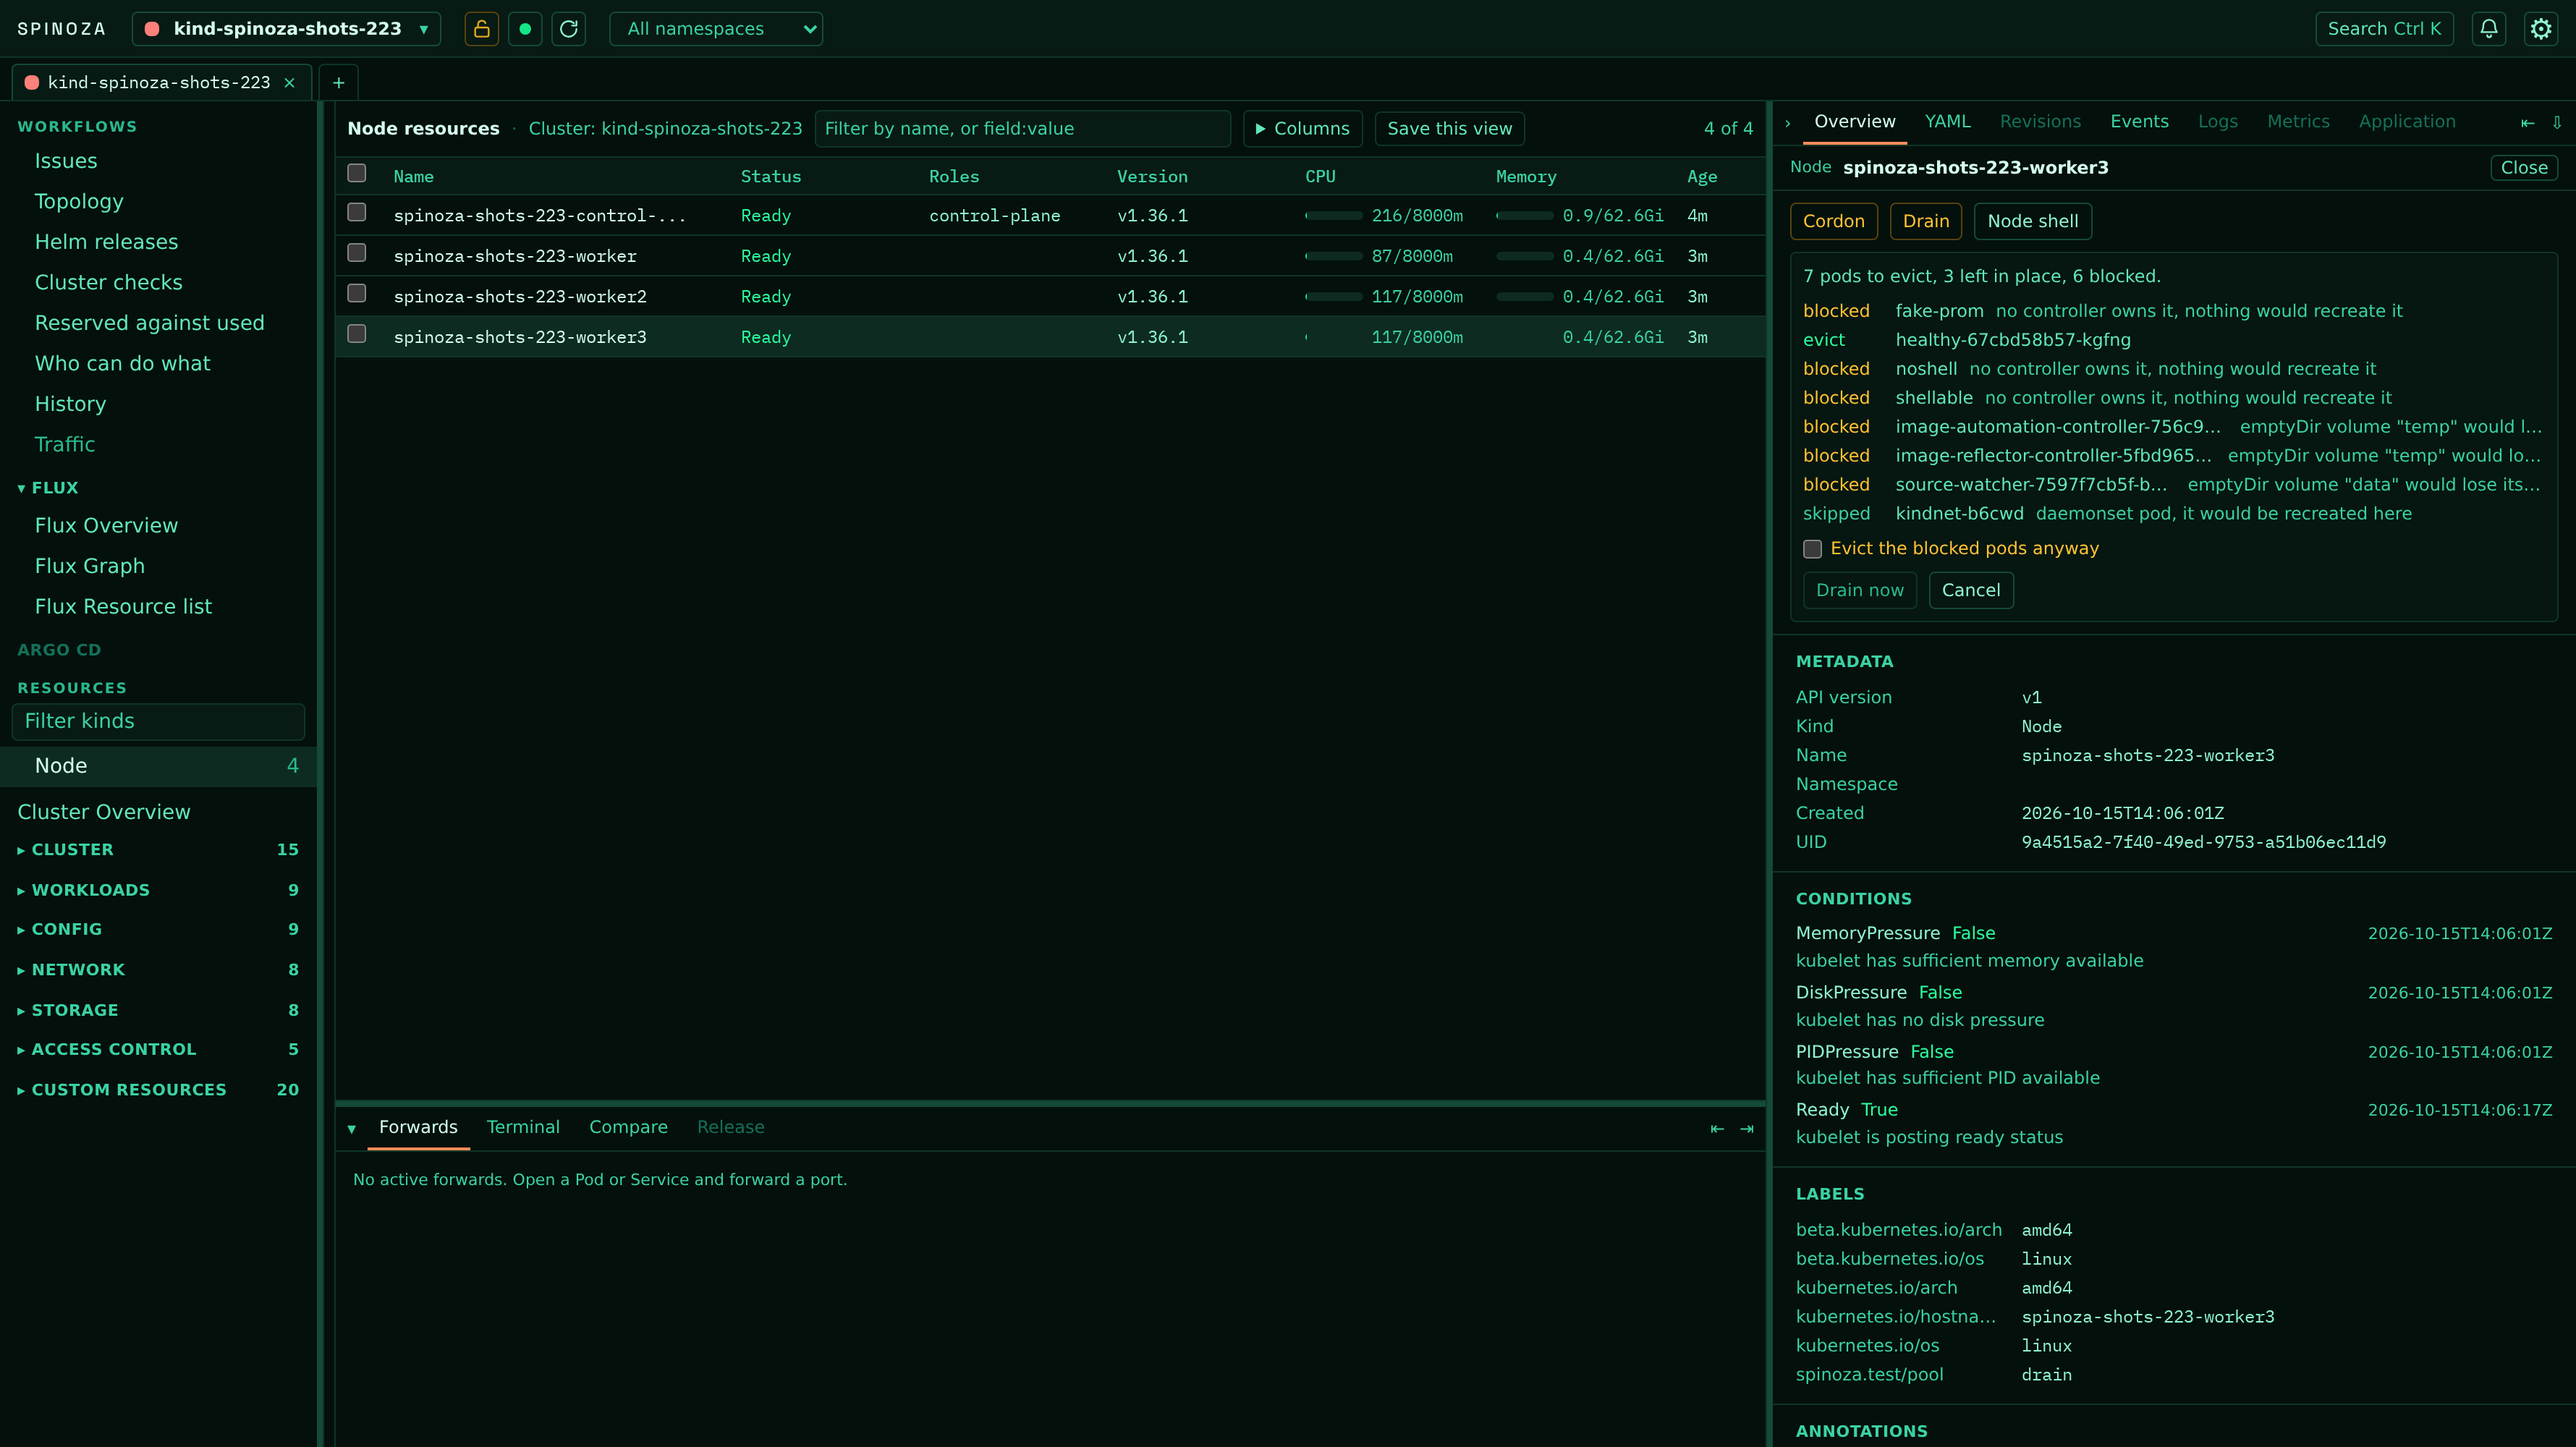
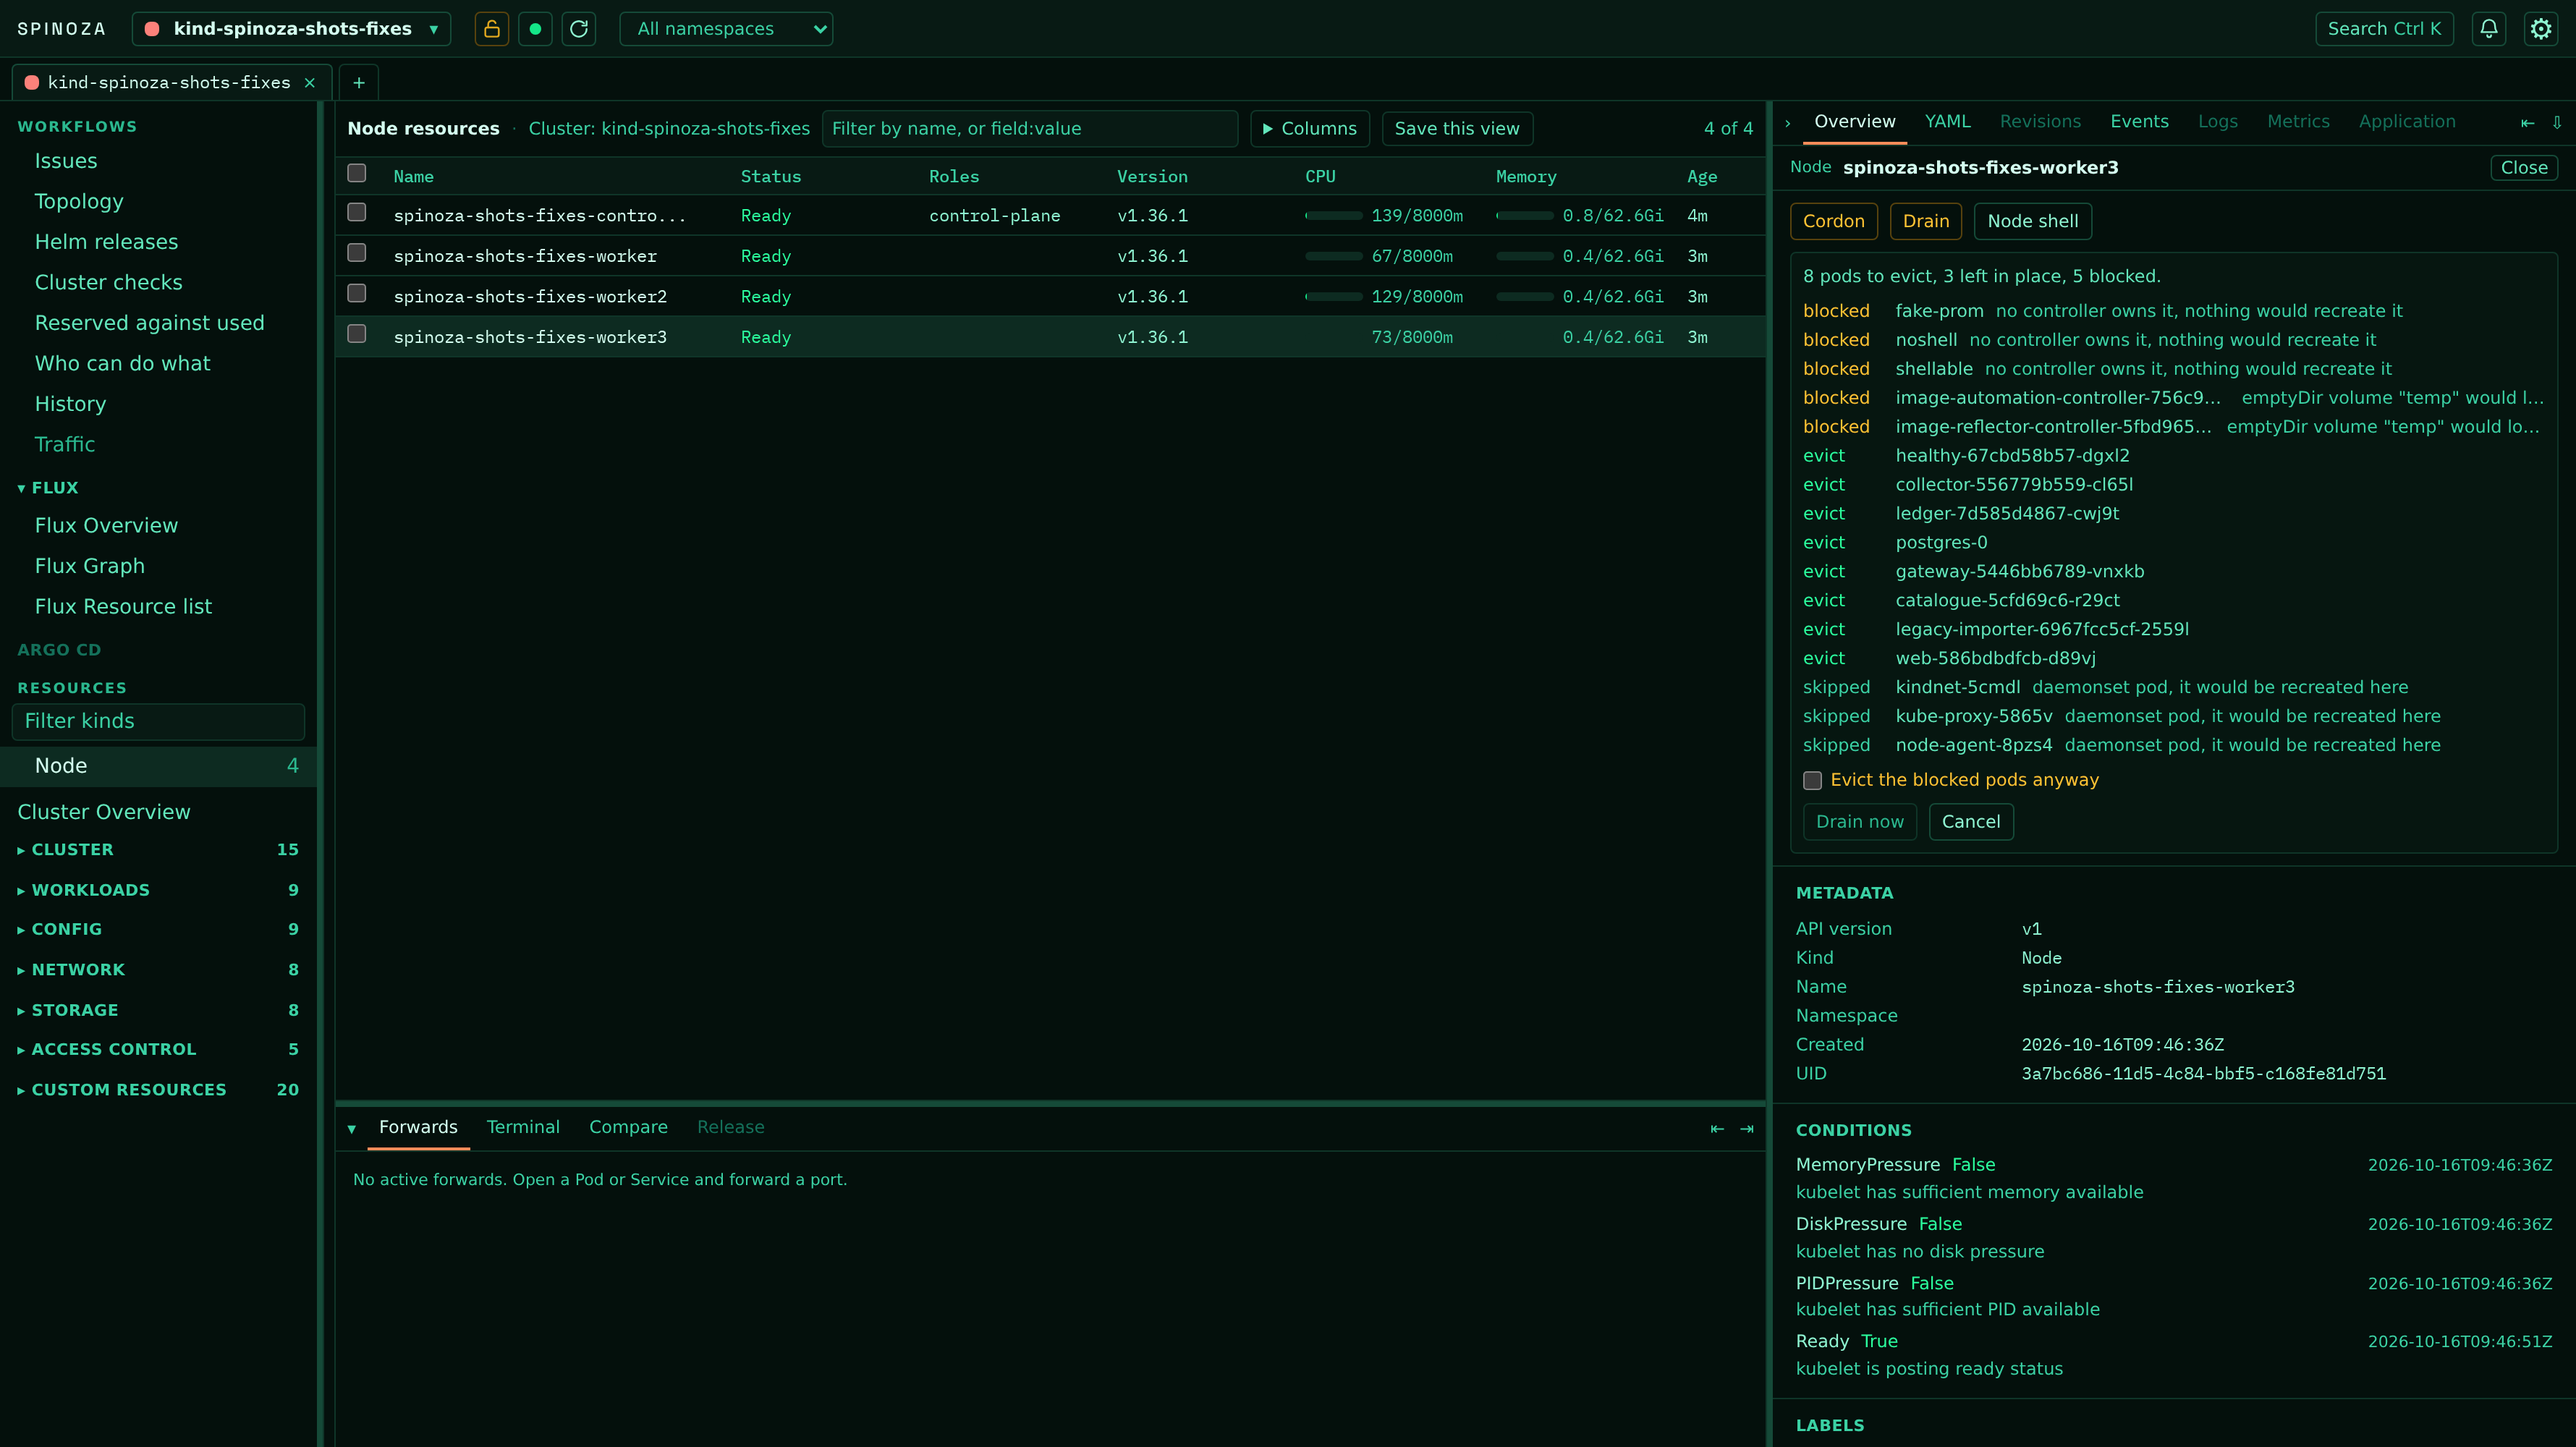
docs: recapture the flux and drain screenshots and name the CIS labels

diff --git a/README.md b/README.md
@@ -72,7 +72,8 @@ releases and GitOps, without switching tab.
 ## Checks
 
 128 checks over security, reliability and efficiency, decided against the live cluster rather than a
-parsed manifest, and labelled PSS baseline, PSS restricted or NSA/CISA where a framework covers them.
+parsed manifest, and labelled PSS baseline, PSS restricted, NSA/CISA or CIS Kubernetes Benchmark where
+a framework covers them.
 They read workloads, RBAC, networking, storage and your own custom resources, and warn about APIs a
 coming release removes and certificates about to expire.
 
@@ -123,7 +124,7 @@ Every change Spinoza made, kept per cluster, with what changed and when.
 
 Flux and Argo CD side by side: cluster sync, controller health, per-kind lists, status tiles. Reconcile, suspend and resume Flux objects. Sync and refresh Argo Applications.
 
-![Spinoza Flux overview: all systems operational, controller health and resource usage, and counts for appliers and sources](docs/images/flux-overview.png)
+![Spinoza Flux overview: all systems operational, cluster sync from a GitRepository, controller health and resource usage, and counts for appliers and sources](docs/images/flux-overview.png)
 
 The dependency graph is laid out by what manages what. Argo's is the app-of-apps, ApplicationSets above what they generate. A node opens in the drawer with its actions.
 
